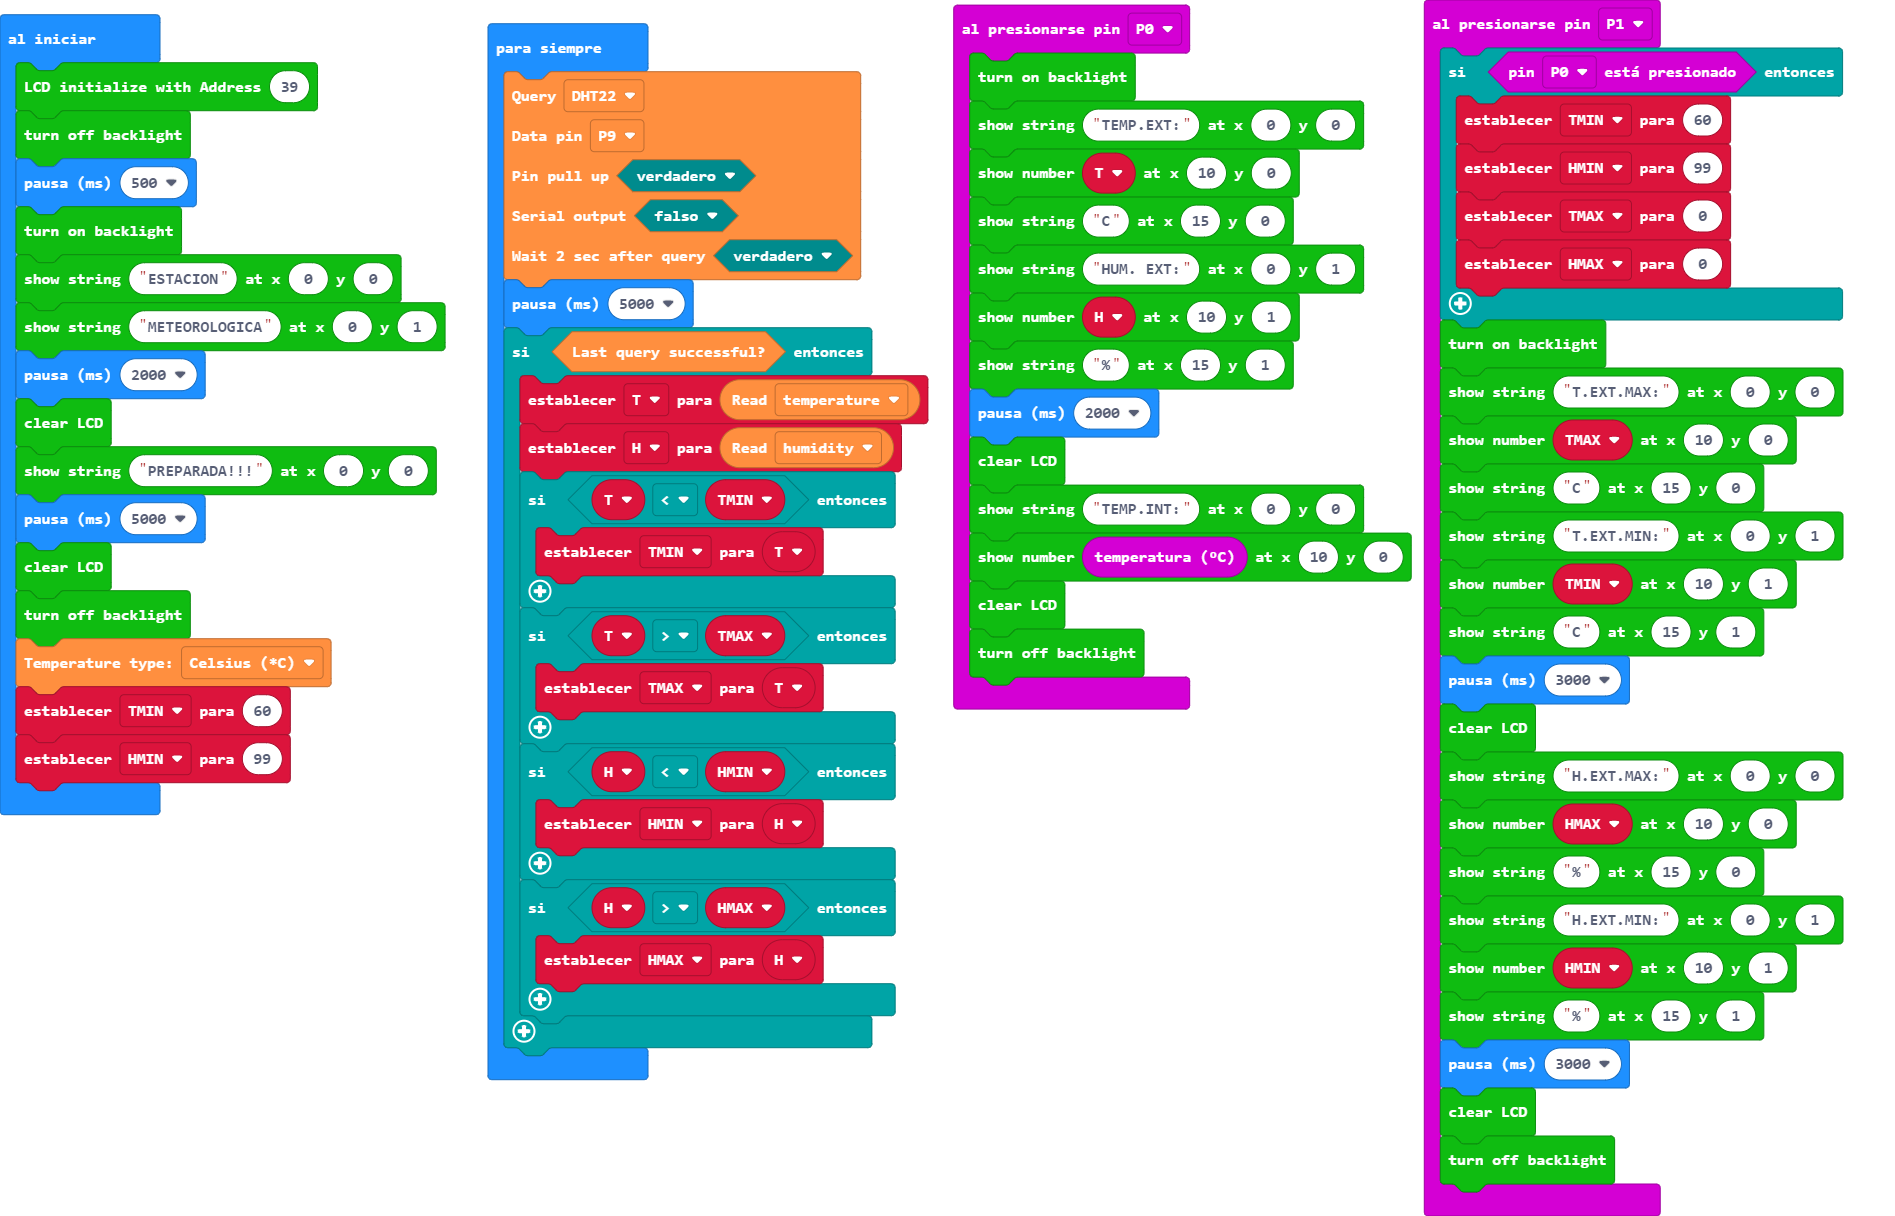
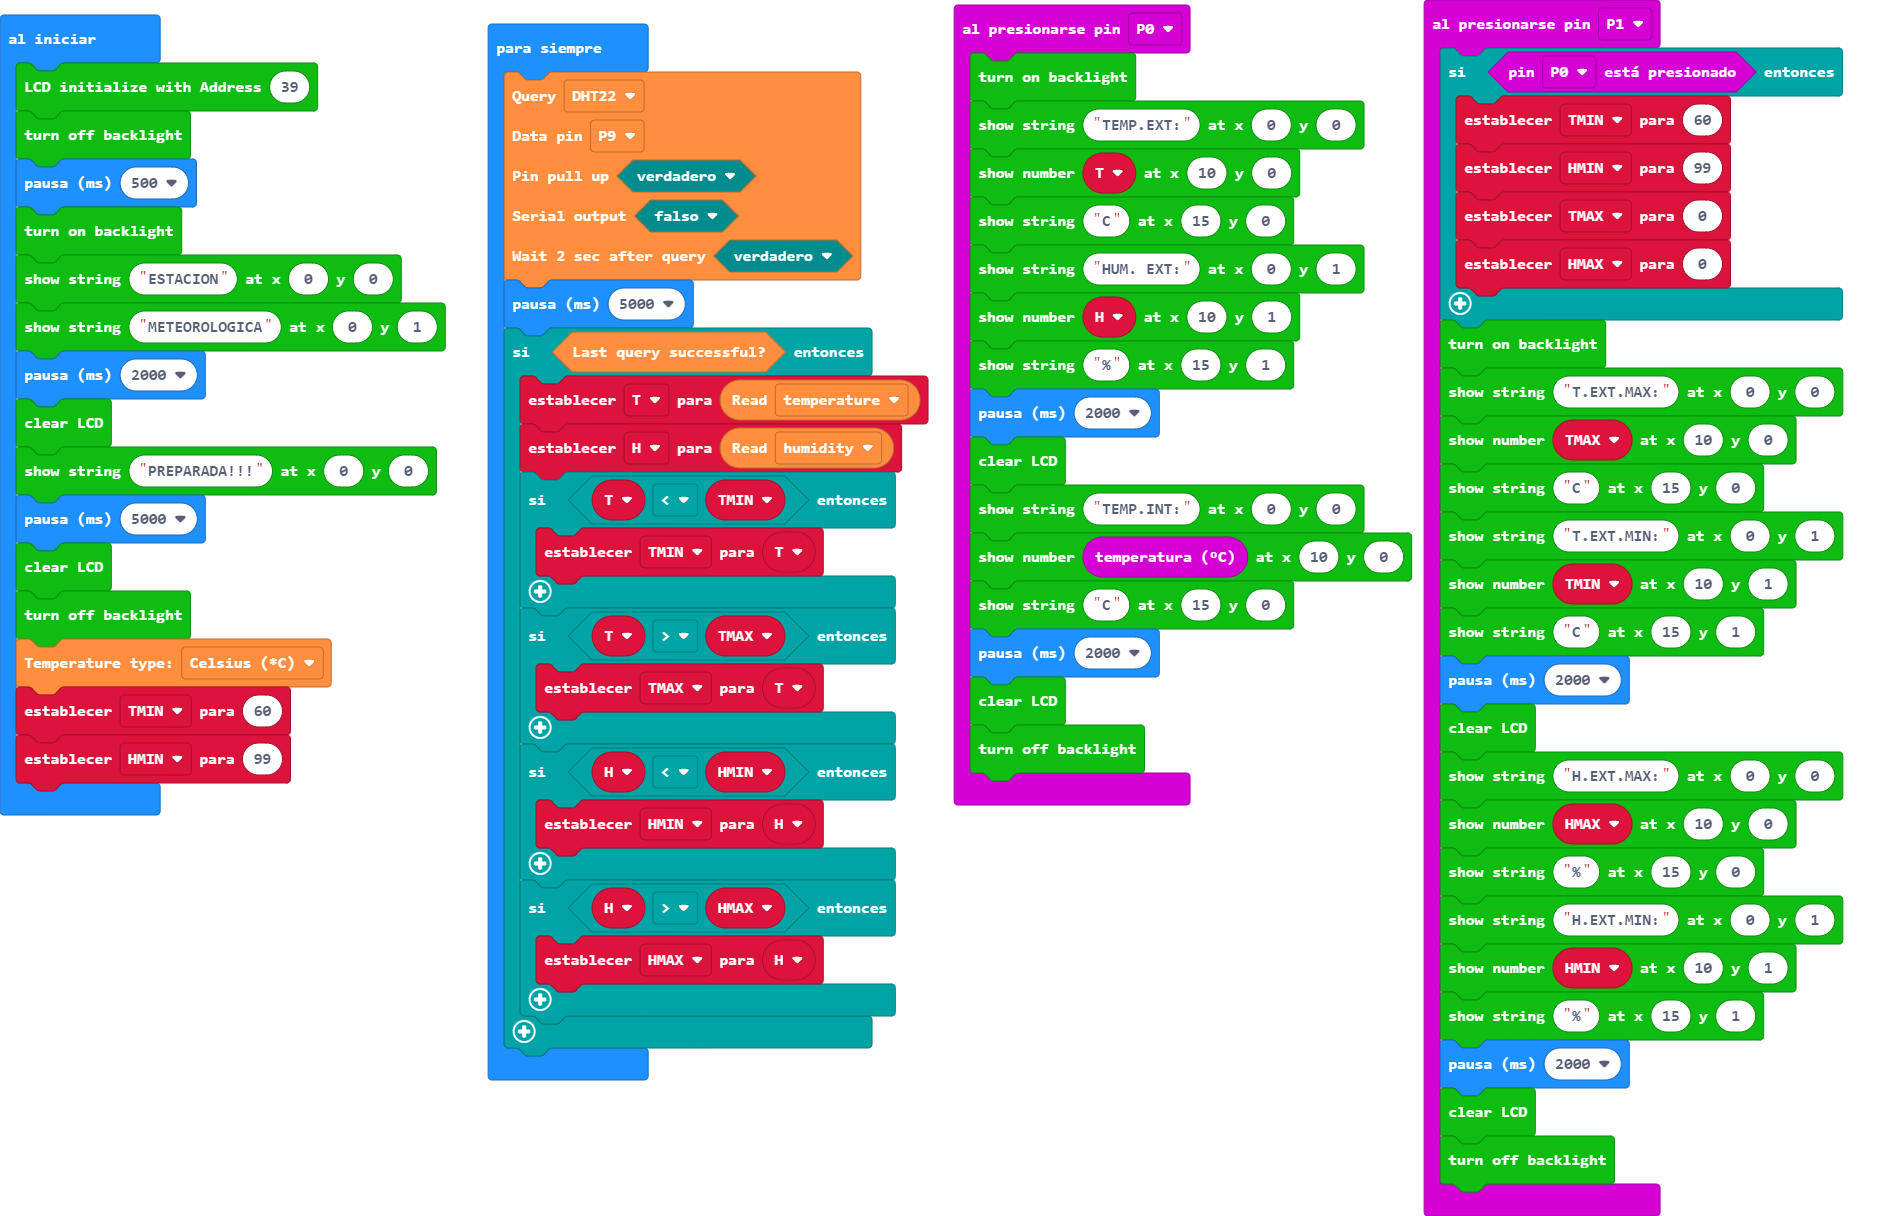
Actualizar main.blocks, main.ts

diff --git a/main.ts b/main.ts
@@ -10,6 +10,8 @@ input.onPinPressed(TouchPin.P0, function () {
     I2C_LCD1602.clear()
     I2C_LCD1602.ShowString("TEMP.INT:", 0, 0)
     I2C_LCD1602.ShowNumber(input.temperature(), 10, 0)
+    I2C_LCD1602.ShowString("C", 15, 0)
+    basic.pause(2000)
     I2C_LCD1602.clear()
     I2C_LCD1602.BacklightOff()
 })
@@ -27,7 +29,7 @@ input.onPinPressed(TouchPin.P1, function () {
     I2C_LCD1602.ShowString("T.EXT.MIN:", 0, 1)
     I2C_LCD1602.ShowNumber(TMIN, 10, 1)
     I2C_LCD1602.ShowString("C", 15, 1)
-    basic.pause(3000)
+    basic.pause(2000)
     I2C_LCD1602.clear()
     I2C_LCD1602.ShowString("H.EXT.MAX:", 0, 0)
     I2C_LCD1602.ShowNumber(HMAX, 10, 0)
@@ -35,7 +37,7 @@ input.onPinPressed(TouchPin.P1, function () {
     I2C_LCD1602.ShowString("H.EXT.MIN:", 0, 1)
     I2C_LCD1602.ShowNumber(HMIN, 10, 1)
     I2C_LCD1602.ShowString("%", 15, 1)
-    basic.pause(3000)
+    basic.pause(2000)
     I2C_LCD1602.clear()
     I2C_LCD1602.BacklightOff()
 })
